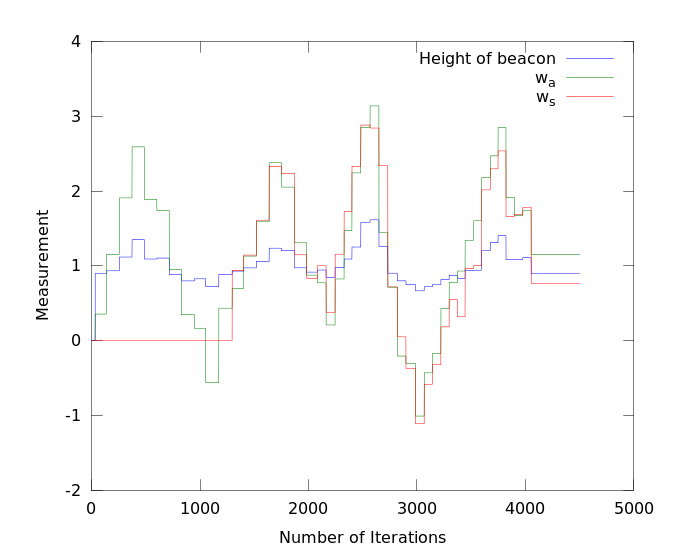
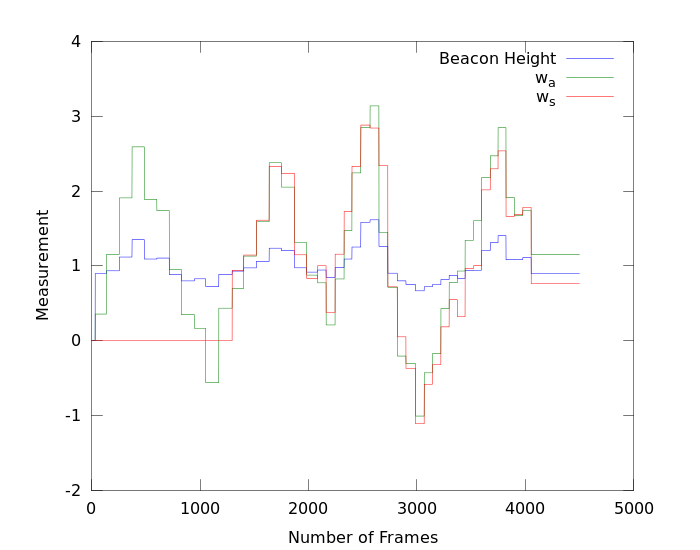
final

Changed region(s): [[0.39, 0.9582, 0.63, 0.9891], [0.6, 0.0927, 0.81, 0.1236]]

diff --git a/report.tex b/report.tex
@@ -43,14 +43,14 @@ make consistency happen, or the data gathered are too noisy.
 
 \hfill
 
-The action selection is even necessary in some environment. The
+The action selection is even necessary in some environments. The
 experiments in \cite{CSJ06} assume that \textit{we} know the effect
-the actions -- for example, some actions would make it go forward, and
-others make it go backward -- while the robot does not. So to explore
-the environment, we make the robot walk forward and backward
-alternatively to explore the state space. However, these the actions
-may be totally unknown.  If the agent still chooses the actions uniformly
-random, then exploration would be low efficient.
+the actions -- for example, some actions would make the robot go
+forward, and others make it go backward -- while the robot does not.
+So to explore the environment, we make the robot walk forward and
+backward alternatively to explore the state space. However, these 
+actions may be completely unknown.  If the agent still chooses the
+actions uniformly random, then exploration would be low efficient.
 
 For example, we consider 1-dimensional walk. Let the world be in the
 range of $[0,n]$. The agent starts at 0, and wants to reach $n$. Let
@@ -147,8 +147,8 @@ with our approach in Section~\ref{sec:dis}.
 \end{algorithmic}
 \end{algorithm*}
 
-In this section, I propose an algorithm, which I call it strong ASAMI,
-that makes the agent choose action in a computationally cheap way.
+In this section, I propose an algorithm, which I call it Strong ASAMI,
+that makes the agent choose actions in a computationally cheap way.
 This can be applied when there is no prior domain knowledge about
 the action model. The idea is that we divide the learning process into two
 phases. The agent learns the actions first and learns the state space
@@ -160,13 +160,14 @@ Some essential functions are presented in Algorithm~\ref{alg:asami}.
 In initialization, a sample list is initialized for each action
 (Line~\ref{asa:actInit}). $A_0$ is the initial action model (a roughly
 correct action model we have), and its prediction for each action is
-put to the corresponding sample list.  This is a useful
-initialization, as the variance for the sample list first represents
-the error of our initial model.
+pushed to the corresponding sample list.  This is a useful
+initialization, as the variance of the sample list would represent
+the error of our initial model, when the first observed sample is
+added.
 
 In each iteration , update (Line~\ref{asa:update}) is called to update
-the knowledge of the action effects. When the robot needs to decide which
-is the next action to take, getAction (Line~\ref{asa:getAct}) is
+the knowledge of the action effects. When the robot needs to decide
+which is the next action to take, getAction (Line~\ref{asa:getAct}) is
 called.
 
 The action selection strategy in phase 2 (Line~\ref{asa:actSel2}) is
@@ -174,25 +175,31 @@ quite vague. However, this is up to the agent how to plan to traverse
 the state space. For example, it might want to keep trying actions
 with positive $\Delta state$. When it observes no state changes after
 executing such action, then it tries actions with negative $\Delta
-state$. Then the robot should have the performance of walking forward
-and backward in the domain.
+state$. Then the robot should finally have the performance of walking
+forward and backward in the domain, even without a prior domain
+knowledge of the actions.
 
 \section{Experiments}
 
 The plan for the experimental evaluation is that, first, I test ASAMI
-in a toy domain. I only naively implemented action model and sensor
-model. Then, I made ASAMI and Strong ASAMI work on Nao.
+in a toy domain. I only naively implemented the action model and the
+sensor model. Then, I made ASAMI and Strong ASAMI work on Nao.
 
 Action model and sensor model are both assumed to be cubic functions.
-We have four parameters to estimate for each model. The initial action
-model $A_0$ is defined to be $A_0(c) = c$.
+There are four parameters to be estimated for each model. The initial
+action model $A_0$ is defined to be $A_0(c) = c$.
+
+Same as \cite{CSJ06}, in the first $T\_START$ iterations, the sensor
+model is being learned by the action model, but not used to update
+$w_s$. So in the figures $w_s$ doesn't change at the beginning. This
+is important for the algorithm to converge.
 
 \subsection{Test in Simulator}
 
-\begin{figure}[h]
+\begin{figure}
 \centering
 \includegraphics[width=\columnwidth]{simResult.png}
-\caption{The Simulator.}
+\caption{Testing of ASAMI in the Simulator. $w_s$}
 \label{fig:sim}
 \end{figure}
 
@@ -203,24 +210,24 @@ that learning on both models converge quickly and nicely. The result
 is in Figure~\ref{fig:sim}.
 
 \subsection{Test on Nao: First Attempt}
+\label{nao:1st}
 
 The challenges when making ASAMI walk on Nao are that beacon height is
 too noisy. The height returned by the beacon detector could be noisy,
 as the observed image can be blur. The real walking velocity can be
 different from what is set. The result is in Figure~\ref{fig:demo}.
 
-One iteration is one frame on the Nao. Observation is retrieved and
-ASAMI is updated in each iteration. It can be told from the beacon
-height that the robot walks forward and backward two times, and then
-kidnapped from a further point to a closer point to the beacon in
-around 3,500 iteration.
+Observation is retrieved and ASAMI is updated in each iteration. It
+can be told from the beacon height that the robot walks forward and
+backward two times, and then kidnapped from a further point to a
+closer point to the beacon in around 3,500 iteration.
 
 \begin{figure}
 \centering
 \includegraphics[width=\columnwidth]{demoResult.png}
 \caption{Testing of ASAMI on Nao during the class demo. The
-observation comes continuously (30 frames per second). It's kidnapped
-at around 3,500 step.}
+observation comes continuously, on average of 30 frames (iterations)
+per second. It's kidnapped at around 3,500th iteration.}
 \label{fig:demo}
 \end{figure}
 
@@ -231,19 +238,27 @@ at around 3,500 step.}
 \includegraphics[width=\columnwidth]{out_obs.png}
 \caption{Testing of ASAMI on Nao. The observation comes only when it's
 in standing phase. So there is less update in the observation, and
-less noise compared to Figre~\ref{fig:demo} (I re-scaled the height of
-beacon, so that they can be plotted in a same magnitude).}
+less noise compared to Figre~\ref{fig:demo}. One iteration of ASAMI
+corresponds to one update in the figure, which corresponding to many
+frames on Nao (I re-scaled the height of beacon, so that they can be
+plotted in a same magnitude).}
 \label{fig:obs}
 \end{figure}
 
-I later noted that making Nao observe while walking is not necessary
-(though interesting). So I made the Nao observe only when standing.
-The performance is that, the Nao takes an action, and then walk, and
-then stands still to look at the beacon. It keeps repeating this
-sequence.  Also, the height of beacon in the figure is the average of
-the observed beacon heights in the standing phase. The result is in
-Figure~\ref{fig:obs}. Clearly, as there are less noise in the
-observation, ASAMI has a better learning performance.
+I later realized that making Nao observe while walking is not
+necessary (though interesting). So I made the Nao observe only when
+standing.  The performance is that, the Nao takes an action, and then
+walk, and then stands still to look at the beacon. It keeps repeating
+this sequence. The result is in Figure~\ref{fig:obs}.  The height of
+beacon in the figure is the average of the observed beacon heights in
+the standing phase. Note that the x label in Figure~\ref{fig:obs} is
+different from that in Figure~\ref{fig:demo}. In Figure~\ref{fig:demo},
+one iteration of ASAMI is exactly one frame on Nao. Here, one
+iteration of ASAMI takes many frames on Nao (one walking and one
+standing phase).
+
+Clearly, as there are less noise in the observation, ASAMI has a
+better learning performance.
 
 \subsection{Test on Nao: using Strong ASAMI}
 
@@ -260,14 +275,13 @@ beacon, so that they can be plotted in a same magnitude).}
 
 Strong ASAMI is applied in this experiment. The assumption is
 different from the previous ones - Nao doesn't have the knowledge of
-which action guarantees to make it walk forward or backward. The
-results are in Figure~\ref{fig:obs_strong}. It can be told from the
-beacon height that the robot tries different actions first (within
-1,500 iterations) and then move forward and backward to explore the
-state space.
+the actions. The results are in Figure~\ref{fig:obs_strong}. It can be
+told from the beacon height that the robot tries different actions
+first (within 1,500 iterations, or frames) and then move forward and
+backward to explore the state space.
 
 Another intended goal is to show that convergence in
-Figure~\ref{fig:obs_strong} should be faster than in previous
+Figure~\ref{fig:obs_strong} should be faster than that in previous
 experiments. Actually, the difference is not significant, at least for
 1-dimensional environment.
 
@@ -275,21 +289,28 @@ experiments. Actually, the difference is not significant, at least for
 \label{sec:dis}
 
 It's possible that learning each discrete action independently would
-have a better performance. Though it is interesting to estimate what
-the most likely continuous model, expressed by polynomial function, by
-the samples. It has several constraints. First, degree selection
-should be determined, possibly using methods in
-\cite{IJAIT08-stronger}. But the model many not be a small-dimensional
-polynomial, so there might be too many parameters to estimate. Second,
-the inherent drawback of function approximation method is that local
-updates could have global effects. This is especially harmful in a
-noisy environment.
+have a better performance. That would be the same metric as
+\cite{LNAI2007-ahmadi}. Though it is interesting to estimate what
+the most likely continuous model is, expressed by polynomial function.
+It has several constraints. First, degree selection should be
+determined, possibly using methods in \cite{IJAIT08-stronger}. But the
+model may not be a small-dimensional polynomial, so there might be
+too many parameters to estimate. Second, the inherent drawback of
+function approximation method is that local updates could have global
+effects. This is especially harmful in a noisy environment.
+
+The idea of action trials is very similar to the idea of N-bandit
+problem \cite{vermorel2005multi}. Though we are not going to find an
+optimal action. The goal should be the smallest variance of all the
+actions. To solve this problem, I used a very naive approach - always
+choosing an action with the least variance. However, the actions are
+not mutually independent - they are picked up from a continuous space.
+So getting one sample of an action can help us know its neighborhood.
 
 The action model and sensor model are comparatively easy to learn for
 a 1-dimensional environment. So expecting improvement based on the
-result of ASAMI algorithm maybe not realistic. However, Strong ASAMI
+result of ASAMI algorithm may not be realistic. However, Strong ASAMI
 does show its power in the environment where action learning is
-:q
 necessary.
 
 %=====================================================================

diff --git a/draw.m b/draw.m
@@ -1,0 +1,7 @@
+d = dlmread("out_strong.lgdat");
+d(:, 1) /= 100;
+plot(d);
+xlabel("Number of Frames");
+ylabel("Measurement");
+legend("Beacon Height", "w_a", "w_s");
+print("out_strong.png", "-S700,550");
